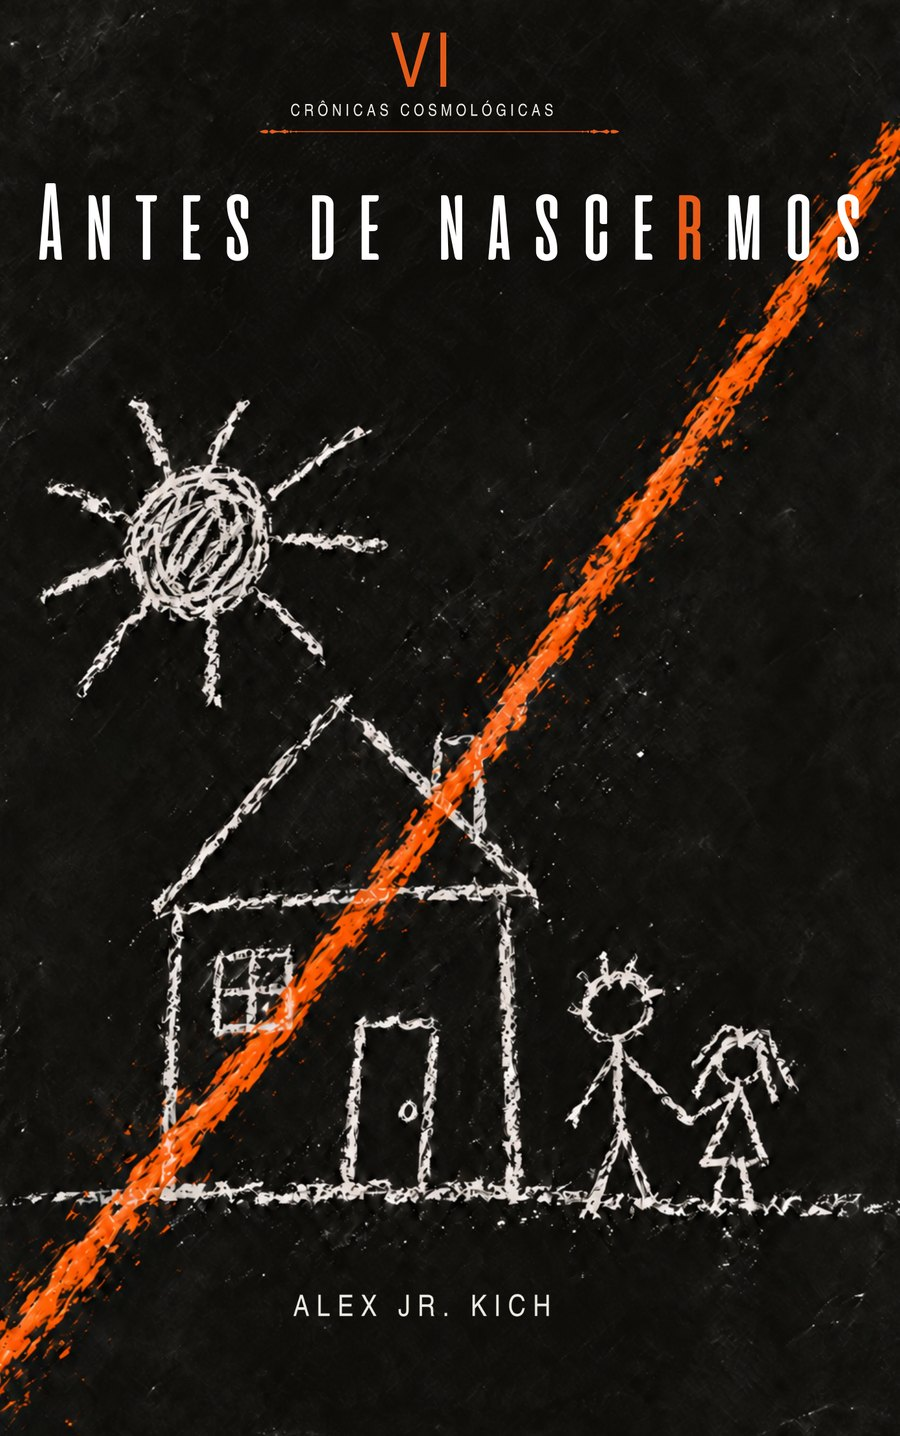
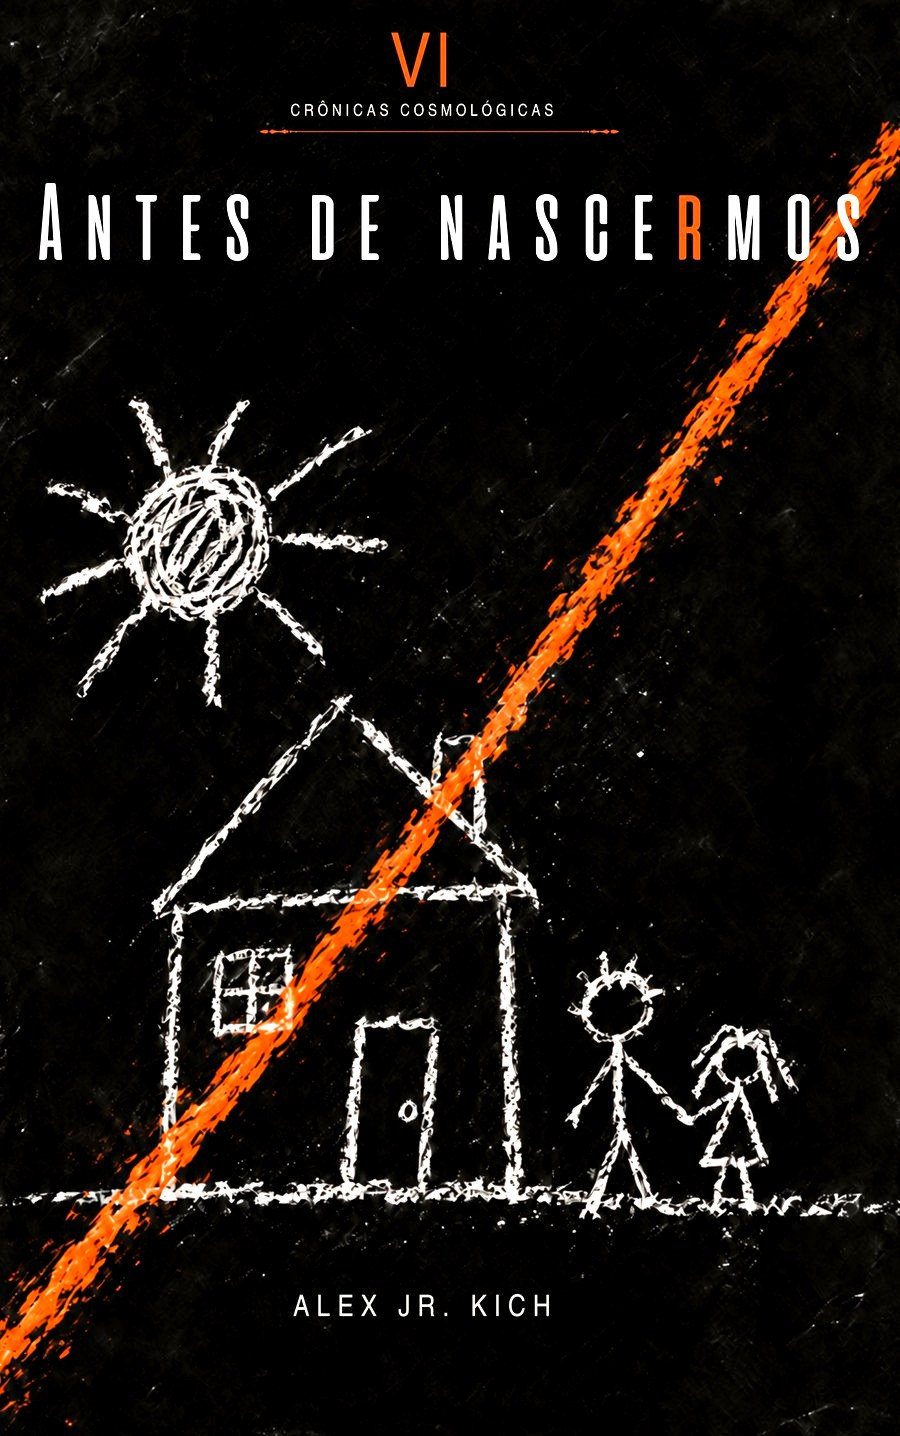
Corrige niveis da capa do volume VI (fundo e brancos apagados)

diff --git a/INTERNATIONAL-SITE-RECON.md b/INTERNATIONAL-SITE-RECON.md
@@ -665,3 +665,7 @@ O autor declarou que a amostra em inglês do site está correta e pode ser publi
 | GitHub Pages do `site-sinal` | Não estava ativo (`kichalex33-ops.github.io/site-sinal/` responde 404) |
 | EPUB de cortesia desatualizado | Regenerado a partir de `SINAL_RUIDO_1EDICAO_FINAL.docx` (38 capítulos, 237 parágrafos atualizados, 505.795 bytes). Reaproveita capa, CSS, sumário e páginas iniciais do EPUB anterior. Cópia em `sinal final/SINAL_RUIDO_cortesia_1edicao_final.epub` e no endereço secreto da cortesia. Sem validador epubcheck disponível: verificados XML bem formado, `mimetype` sem compressão, mesmas 53 entradas e `testzip` limpo. Recomenda-se abrir em um leitor antes de divulgar |
 | Repo do worker | Commit `d7872ff` enviado ao `SINAL-RUIDO` (main); dispara o build automático do Cloudflare com o mesmo código já publicado |
+
+## S. Capa do volume VI (2026-09-25)
+
+A capa de "Antes de Nascermos" parecia apagada: o preto estava levantado (mediana de luminosidade 18, contra 0 nas capas V, VII e outras) e os brancos eram mais fracos (95º percentil 138, contra 155 a 175). A cópia do site era idêntica ao original (`sinal final/todas as capas e contracapas/13.png`), então o efeito vem da própria arte. Aplicada correção de níveis (ponto preto 17, ponto branco 200) só em `public/livros/antes-de-nascermos.jpg`; o desenho não mudou. O original permanece intacto. O título continua mais fino e espaçado que nos outros volumes, o que só se corrige na arte. A mesma correção vale para a versão de impressão/KDP, se usarem o mesmo arquivo.
